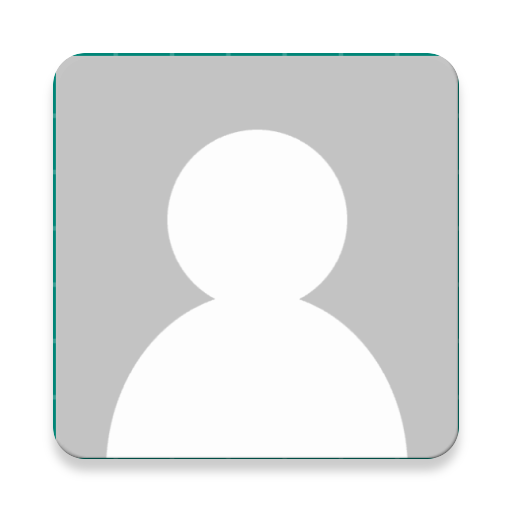
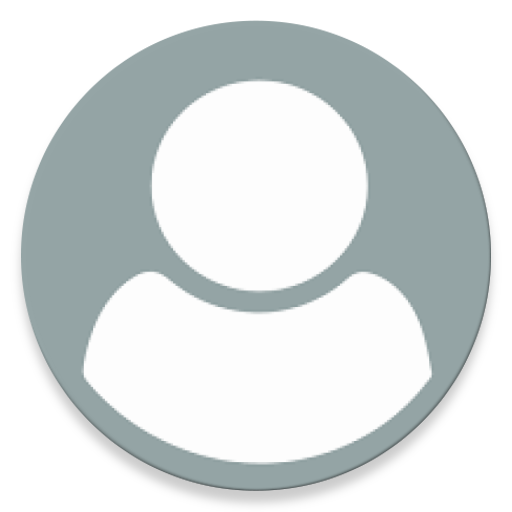
adding default image profile

diff --git a/app/src/main/java/com/project/alertavecinal/ContactsFragment.java b/app/src/main/java/com/project/alertavecinal/ContactsFragment.java
@@ -88,7 +88,7 @@ public class ContactsFragment extends Fragment {
                             holder.userName.setText(profileNombre);
                             holder.userDireccion.setText(profileDireccion);
                             holder.userTelefono.setText(profileTelefono);
-                            Picasso.get().load(userImagen).placeholder(R.drawable.profile_image_background).into(holder.profileImage);
+                            Picasso.get().load(userImagen).placeholder(R.mipmap.profile_image_round).into(holder.profileImage);
                         } else{
                             String profileDireccion = dataSnapshot.child("direccion").getValue().toString();
                             String profileNombre = dataSnapshot.child("nombre").getValue().toString();
